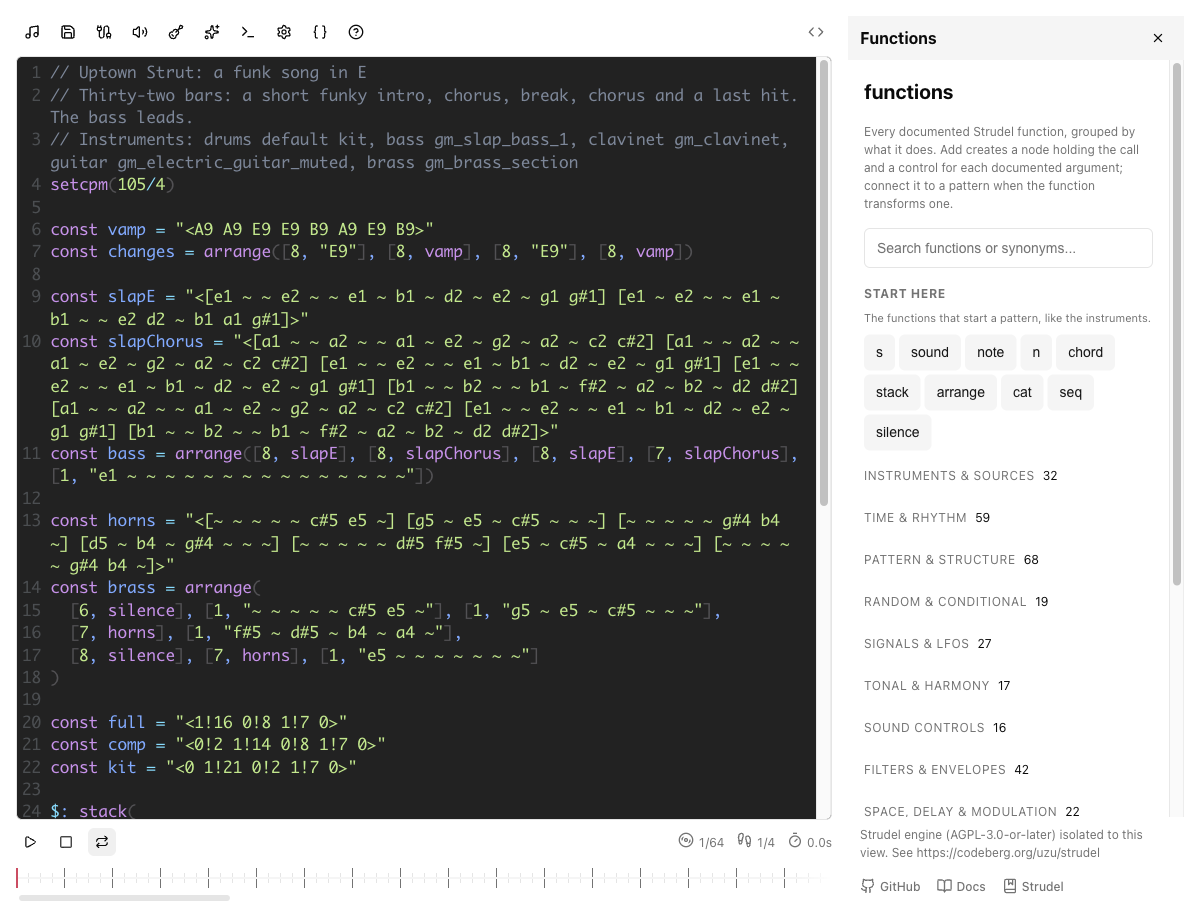
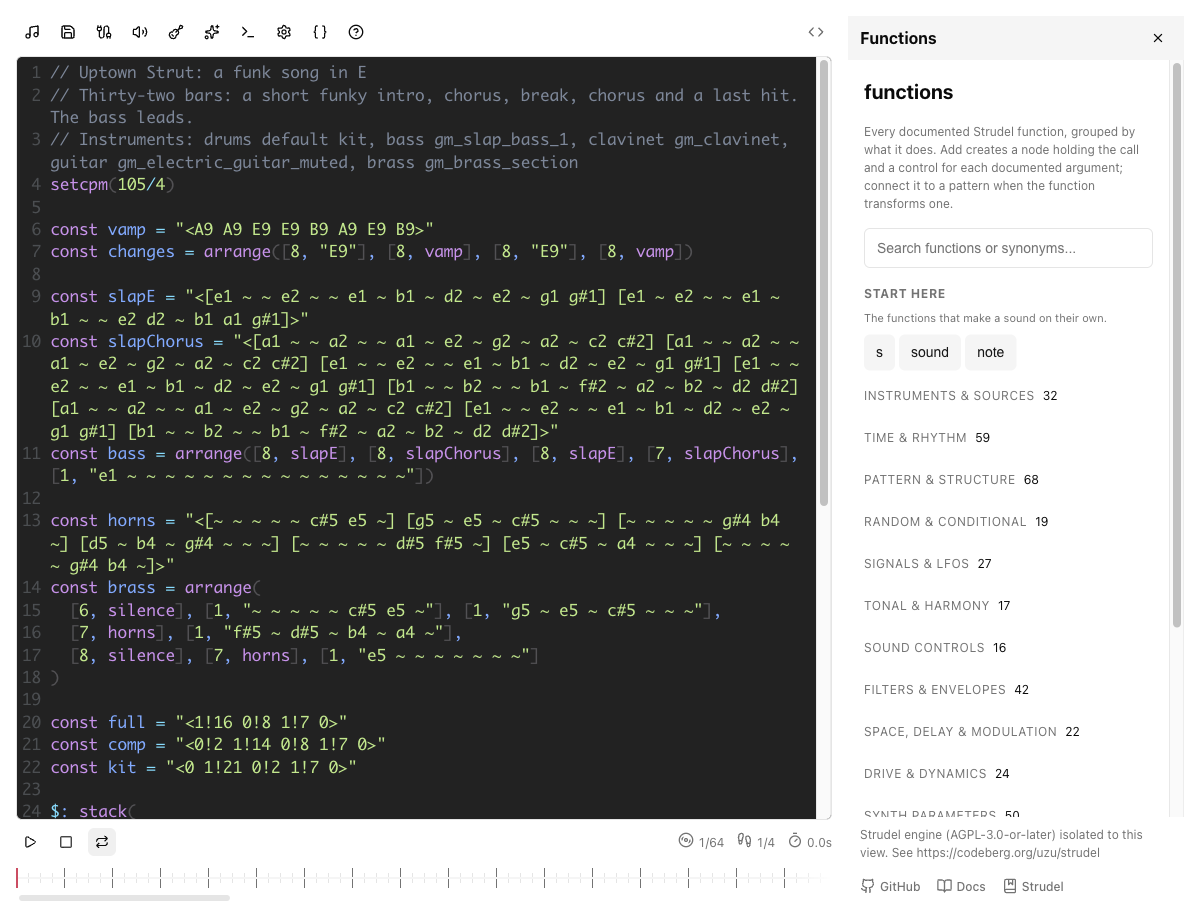
feat: list only the functions that make a sound on their own in Start here

diff --git a/packages/strudel-editor/src/editor/tabs/FlowTab.vue b/packages/strudel-editor/src/editor/tabs/FlowTab.vue
@@ -75,9 +75,7 @@ const addFunction = (entry: StrudelApiEntry): void => {
 
     <section class="strudel-flow-tab__start" aria-labelledby="strudel-flow-start">
       <h4 id="strudel-flow-start" class="strudel-flow-tab__group-title">Start here</h4>
-      <p class="strudel-flow-tab__group-hint">
-        The functions that start a pattern, like the instruments.
-      </p>
+      <p class="strudel-flow-tab__group-hint">The functions that make a sound on their own.</p>
       <ul class="strudel-flow-tab__start-list">
         <li v-for="shortcut in startEntries" :key="shortcut.name">
           <Button

diff --git a/packages/strudel-editor/src/editor/strudelApiGroups.ts b/packages/strudel-editor/src/editor/strudelApiGroups.ts
@@ -556,16 +556,5 @@ export const STRUDEL_API_HIDDEN_NAMES: string[] = [
   'wordfall'
 ]
 
-/** The functions that start a pattern, like the instrument nodes, listed above the groups. */
-export const STRUDEL_API_START_NAMES: string[] = [
-  's',
-  'sound',
-  'note',
-  'n',
-  'chord',
-  'stack',
-  'arrange',
-  'cat',
-  'seq',
-  'silence'
-]
+/** The functions that make a sound on their own, listed above the groups. */
+export const STRUDEL_API_START_NAMES: string[] = ['s', 'sound', 'note']

diff --git a/documentation/docs/guides/strudel-editor.md b/documentation/docs/guides/strudel-editor.md
@@ -238,7 +238,7 @@ the beats in one cycle (**B/C**).
 
 The **Functions** drawer, open in code mode and flow mode alike, lists every documented Strudel
 function except setup and internals, searchable by name, synonym or description. Groups are
-collapsed until opened or searched, and each shows its count. **Start here** at the top holds the functions that start a pattern (`s`, `note`, `stack` and the like), as the instrument nodes do. Every function links to its page in
+collapsed until opened or searched, and each shows its count. **Start here** at the top holds the functions that make a sound on their own: `s`, `sound` and `note`. Every function links to its page in
 the Strudel docs. **Add** puts a generic function node on the canvas holding only that call, with a
 knob, switch or field for each documented argument; nothing from the examples is added around it.
 Connect it to a pattern and it chains as `.name(...)`; left alone it starts a pattern as
